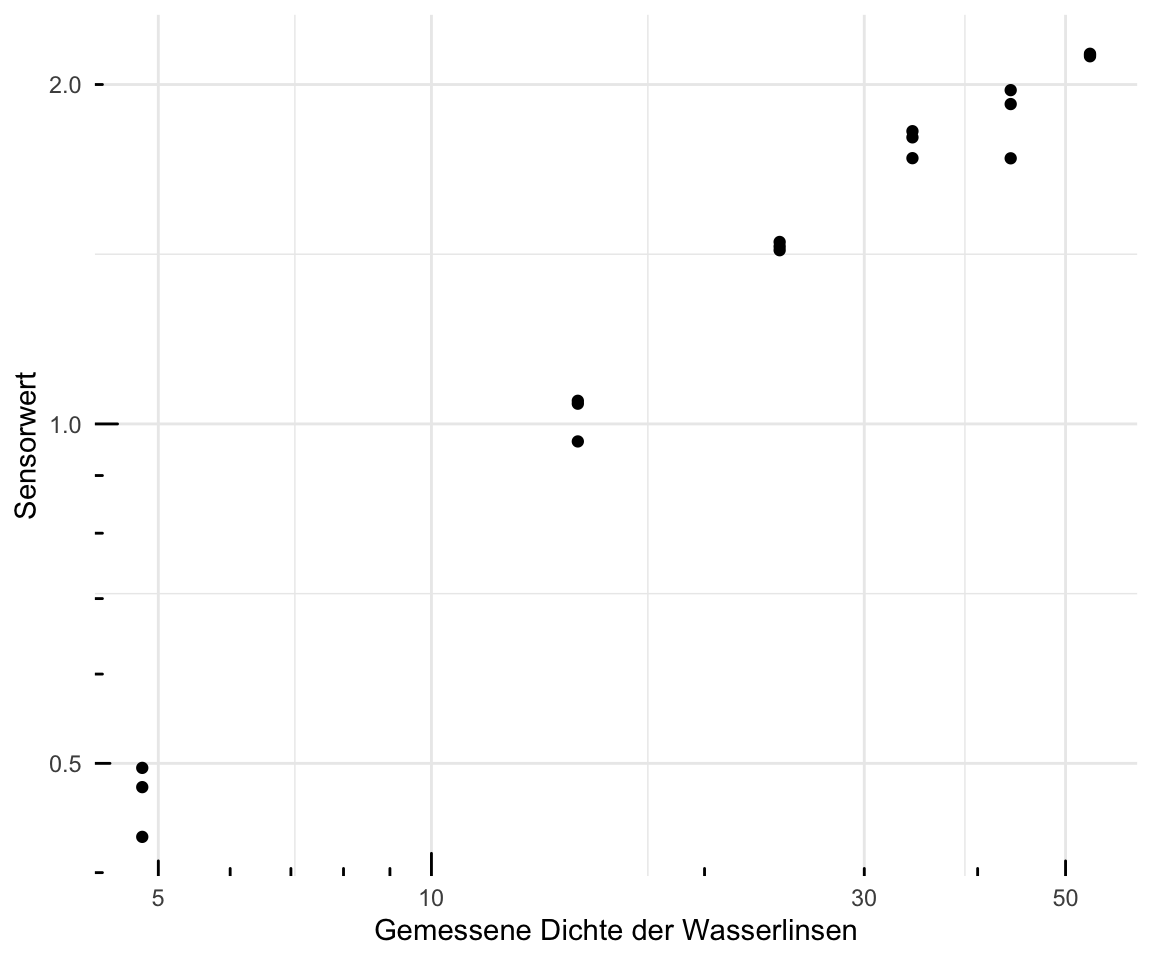
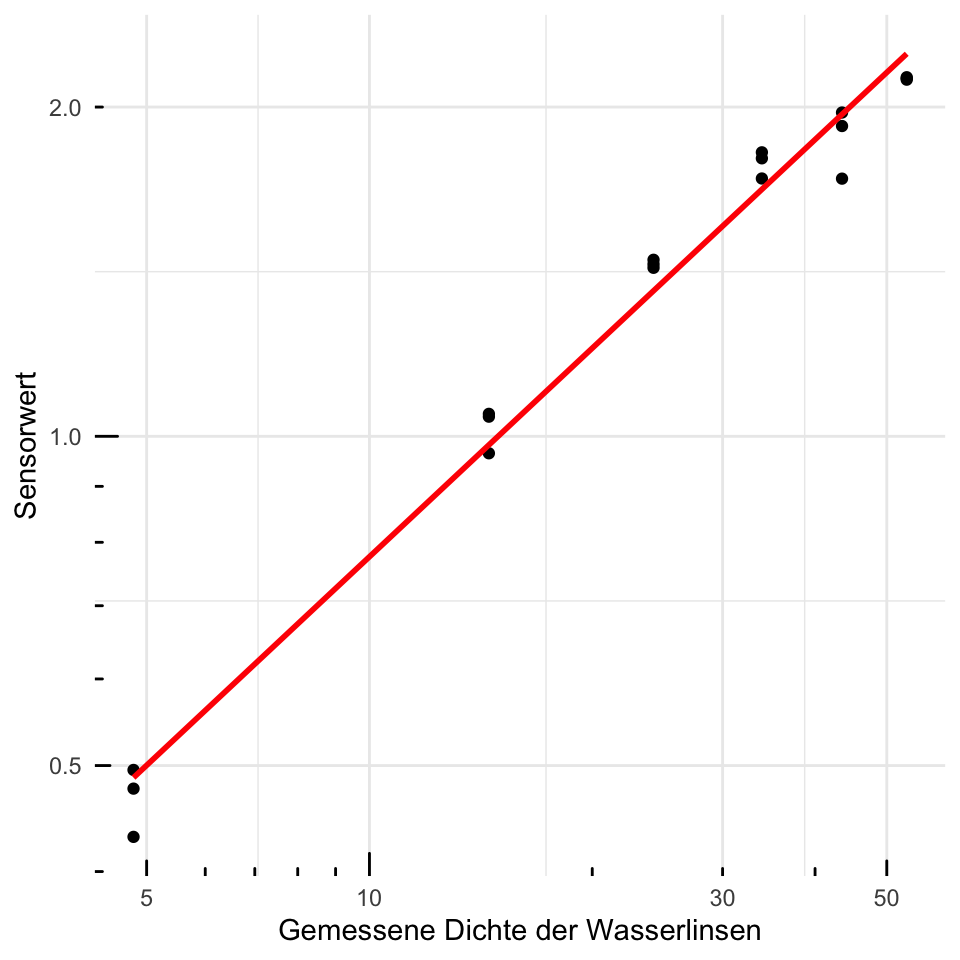
added images

diff --git a/docs/stat-modeling-outlier.html b/docs/stat-modeling-outlier.html
@@ -758,7 +758,7 @@ div.csl-indent {
 
 </header>
 
-<p><em>Letzte Änderung am 23. January 2024 um 09:56:38</em></p>
+<p><em>Letzte Änderung am 23. January 2024 um 18:05:30</em></p>
 <blockquote class="blockquote">
 <p><em>“You should be far more concentrated with your current trajectory than with your current results” — Atomic Habits’</em></p>
 </blockquote>
@@ -771,7 +771,7 @@ div.csl-indent {
 <p><strong>Dieses Kapitel wird in den Wintersemesterferien grundlegend überarbeitet. Mit einer neuen Version ist ab März 2024 zu rechnen. Bis dahin sind Teile des Kapitels ab und zu nicht mehr funktional.</strong></p>
 <hr>
 <p>Was sind Ausreißer (eng. <em>Outlier</em>) in einem Datensatz? An sich schon eine schwierige Frage. Einige Wissenschaftler behaupten es gebe keine Ausreißer. Die Daten müssten so ausgewertet werden wie die Daten erhoben wurden. Was es gäbe wären technische Artefakte, diese müssten entdeckt und entfernt werden. Andere Wissenschaftler meinen, dass Ausreißer schon existieren und entfernt werden müssen, wenn diese Ausreißer nicht zu der Fragestellung oder den restlichen Daten passen. Es ist eine unbekannte Subpopulation, die sich mit einem oder zwei Vertretern in unsere Daten geschmuggelt hat. Diese Subpopulation verzerrt nur das Ergebnis, da wir mit diesen wenigen anderen Beobachtungen sowieso keine Aussage treffen können. <span class="citation" data-cites="cook2021philosophy">Cook u.&nbsp;a. (<a href="#ref-cook2021philosophy" role="doc-biblioref">2021</a>)</span> meint in seiner wissenschaftlichen Veröffentlichung <a href="https://academic.oup.com/icb/article/61/6/2191/6324573">The Philosophy of Outliers: Reintegrating Rare Events Into Biological Science</a>, dass gerade die seltenen Ereignisse, die wir als Ausreißer definieren, dann vielleicht die spannenden Beobachtungen sind. Warum verhält sich gerade diese eine Beobachtung in diesem Experiment so seltsam? Was will uns die Beobachtung mehr über die biologischen Hintergründe verraten? Aber auch im Falle von <span class="citation" data-cites="cook2021philosophy">Cook u.&nbsp;a. (<a href="#ref-cook2021philosophy" role="doc-biblioref">2021</a>)</span> müssen wir uns sicher sein, dass unsere Ausreißer keine Tippfehler oder einfach nur nicht gegossene Pflanzen sind. Dazu aber gleich nochmal mehr.</p>
-<p>Am Ende geht es aber darum Ausreißer zu finden und diese aus den Daten zu entfernen. Wir setzen dann diese Werte der Ausreißer auf <code>NA</code> für fehlender Wert (eng. <em>not available</em>). Oder aber wir ersetzen die Ausreißer durch passendere Werte aus unseren Daten. Im Prinzip ein wenig wie finde den Ausreißer und imputiere den Ausreißer mit einer anderen Zahl. Mehr zur Imputation von fehlenden Werten findest du in <a href="stat-modeling-missing.html"><span>Kapitel&nbsp;42</span></a>. Vermeide bitte eine Ausreißer/Imputationsschleife in der du immer wieder Ausreißer findest und diese dann wieder imputierst! Gerade dieses Thema Ausreißer kann sehr gut von biologischen Fachexperten diskutiert werden. In den folgenden Abschnitten wollen wir uns verschiedene Möglichkeiten der Detektion von Ausreißern annähern. Es geht wie immer von algorithmisch einfach zu komplexer. Darüber hinaus gebe ich zuerst nochmal eine kleine Auswahl an Literatur zu dem Thema Ausreißer. Die kannst du auch überspringen, wenn dich das Thema nicht tiefer interessiert. Ein weitreichenden Überblick liefert aber auf jeden Fall <span class="citation" data-cites="boukerche2020outlier">Boukerche u.&nbsp;a. (<a href="#ref-boukerche2020outlier" role="doc-biblioref">2020</a>)</span> mit ihrer wissenschaftlichen Veröffentlichung <a href="https://dl.acm.org/doi/abs/10.1145/3381028?casa_token=eXl2SvgkPNcAAAAA:Lgs0l4CXmw3mXyzSMVj9-_M2ry0F-lTyfsYUszWhkRJU9TNg5-JjzCaBaOeFSVifSCkvoyQdeuCvvQ">Outlier Detection: Methods, Models, and Classification</a>.</p>
+<p>Am Ende geht es aber darum Ausreißer zu finden und diese aus den Daten zu entfernen. Wir setzen dann diese Werte der Ausreißer auf <code>NA</code> für fehlender Wert (eng. <em>not available</em>). Oder aber wir ersetzen die Ausreißer durch passendere Werte aus unseren Daten. Im Prinzip ein wenig wie finde den Ausreißer und imputiere den Ausreißer mit einer anderen Zahl. Mehr zur Imputation von fehlenden Werten findest du in <a href="stat-modeling-missing.html"><span>Kapitel&nbsp;42</span></a>. Vermeide bitte eine Ausreißer/Imputationsschleife in der du immer wieder Ausreißer findest und diese dann wieder imputierst! Gerade dieses Thema Ausreißer kann sehr gut von biologischen Fachexperten diskutiert werden. In den folgenden Abschnitten wollen wir uns verschiedene Möglichkeiten der Detektion von Ausreißern annähern. Es geht wie immer von algorithmisch einfach zu komplexer. Es ist auch möglich mit der Hauptkomponentenanalyse Ausreißer zu finden, aber das ist dann Thema in dem entsprechenden <a href="stat-modeling-pca.html"><span>Kapitel&nbsp;59</span></a>. Bitte dann dort einmal nachschauen. Darüber hinaus gebe ich zuerst nochmal eine kleine Auswahl an Literatur zu dem Thema Ausreißer. Die kannst du auch überspringen, wenn dich das Thema nicht tiefer interessiert. Ein weitreichenden Überblick liefert aber auf jeden Fall <span class="citation" data-cites="boukerche2020outlier">Boukerche u.&nbsp;a. (<a href="#ref-boukerche2020outlier" role="doc-biblioref">2020</a>)</span> mit ihrer wissenschaftlichen Veröffentlichung <a href="https://dl.acm.org/doi/abs/10.1145/3381028?casa_token=eXl2SvgkPNcAAAAA:Lgs0l4CXmw3mXyzSMVj9-_M2ry0F-lTyfsYUszWhkRJU9TNg5-JjzCaBaOeFSVifSCkvoyQdeuCvvQ">Outlier Detection: Methods, Models, and Classification</a>.</p>
 <div class="quarto-layout-panel">
 <div class="quarto-layout-row quarto-layout-valign-top">
 <div class="quarto-layout-cell" style="flex-basis: 15.0%;justify-content: center;">
@@ -862,11 +862,11 @@ Friedhof der R Pakete
 </section>
 <section id="daten" class="level2" data-number="40.2">
 <h2 data-number="40.2" class="anchored" data-anchor-id="daten"><span class="header-section-number">40.2</span> Daten</h2>
-<p>Um die Detektion von Ausreißern besser zu verstehen, schauen wir uns zwei Beispieldaten an.</p>
+<p>Um die Detektion von Ausreißern besser zu verstehen, schauen wir uns zwei Beispieldaten an. Als erstes einen Datensatz zu dem Wachstum von Wasserlinsen und der Messung derselbigen durch einen Sensor. Wir messen also einmal die Dichte <code>duckweeds_density</code> konventionell und wollen dann sehen, ob unser Sensor die Messungen dann widerspiegelt. Hier können wir vermutlich erstmal von einem linearen Wachstum ausgehen, dann aber vermutlich von einer Sättigung. Wir haben un mal nur begrenzt Platz für immer neue sich teilende Wasserlinsen.</p>
 <div class="cell">
 <div class="sourceCode cell-code" id="cb2"><pre class="sourceCode r code-with-copy"><code class="sourceCode r"><span id="cb2-1"><a href="#cb2-1" aria-hidden="true" tabindex="-1"></a>duckweeds_tbl <span class="ot">&lt;-</span> <span class="fu">read_excel</span>(<span class="st">"data/duckweeds_density.xlsx"</span>)</span></code><button title="In die Zwischenablage kopieren" class="code-copy-button"><i class="bi"></i></button></pre></div>
 </div>
-<p>In der <a href="stat-modeling-non-linear.html#tbl-duckweeds">Tabelle&nbsp;<span>52.2</span></a> siehst du dann einmal einen Auszug aus den Daten zu den Wasserlinsen. Es ist ein sehr einfacher Datensatz mit nur zwei Spalten. Wie du siehst, scheint sich das bei der nicht linearen Regression durchzuziehen. Es gehen auch komplexere Modelle, aber dann kann ich die Ergebnisse schlechter visualisieren.</p>
+<p>In der <a href="stat-modeling-non-linear.html#tbl-duckweeds">Tabelle&nbsp;<span>52.2</span></a> siehst du dann einmal einen Auszug aus den Daten zu den Wasserlinsen. Es ist ein sehr einfacher Datensatz mit nur zwei Spalten. Wir haben es eigentlich mit einem nicht linearen Zusammenhang zu tun, aber wir schauen uns hier mal an, was die Algorithmen uns so wiedergeben.</p>
 <div class="cell">
 <div class="cell-output-display">
 <div id="tbl-duckweeds" class="anchored">
@@ -912,19 +912,19 @@ Friedhof der R Pakete
 </div>
 </div>
 </div>
-<p>Im Weiteren betrachten wir noch das Beispiel der Gummibärchendaten. Auch hier haben wir echte Daten vorliegen, so dass wir eventuell Ausreißer entdecken könnten. Da wir hier fehlende Werte in den Daten haben, entfernen wir alle fehlenden Werte mit der Funktion <code>na.omit()</code>. Damit löschen wir jede Zeile in den Daten, wo mindestens ein fehlender Wert auftritt. Da wir hier mittlerweile sehr viele Daten vorliegen haben, wollen wir das Problem auf die beiden Quellen <em>FU Berlin</em> und dem <em>Girls and Boys Day</em> eingrenzen.</p>
+<p>Im Weiteren betrachten wir noch das Beispiel der Gummibärchendaten. Auch hier haben wir echte Daten vorliegen, so dass wir eventuell Ausreißer entdecken könnten. Da wir hier fehlende Werte in den Daten haben, entfernen wir alle fehlenden Werte mit der Funktion <code>na.omit()</code>. Damit löschen wir jede Zeile in den Daten, wo mindestens ein fehlender Wert auftritt.</p>
 <div class="cell">
 <div class="sourceCode cell-code" id="cb3"><pre class="sourceCode r code-with-copy"><code class="sourceCode r"><span id="cb3-1"><a href="#cb3-1" aria-hidden="true" tabindex="-1"></a>gummi_tbl <span class="ot">&lt;-</span> <span class="fu">read_excel</span>(<span class="st">"data/gummibears.xlsx"</span>)  <span class="sc">|&gt;</span></span>
 <span id="cb3-2"><a href="#cb3-2" aria-hidden="true" tabindex="-1"></a>  <span class="fu">select</span>(module, gender, age, height) <span class="sc">|&gt;</span> </span>
 <span id="cb3-3"><a href="#cb3-3" aria-hidden="true" tabindex="-1"></a>  <span class="fu">mutate</span>(<span class="at">gender =</span> <span class="fu">factor</span>(gender, <span class="at">labels =</span> <span class="fu">c</span>(<span class="st">"männlich"</span>, <span class="st">"weiblich"</span>))) <span class="sc">|&gt;</span> </span>
 <span id="cb3-4"><a href="#cb3-4" aria-hidden="true" tabindex="-1"></a>  <span class="fu">na.omit</span>()</span></code><button title="In die Zwischenablage kopieren" class="code-copy-button"><i class="bi"></i></button></pre></div>
 </div>
-<p>In der <a href="#tbl-gummi-1">Tabelle&nbsp;<span>40.2</span></a> ist der Datensatz <code>gummi_tbl</code> nochmal für die ersten sieben Zeilen dargestellt. Nun haben wir hier in dem Datensatz zu den Gummibärchen auch keine fehlenden Werte mehr.</p>
+<p>In der <a href="#tbl-gummi-1">Tabelle&nbsp;<span>40.2</span></a> ist der Datensatz <code>gummi_tbl</code> nochmal als Auszug dargestellt dargestellt. Nun haben wir hier in dem Datensatz zu den Gummibärchen auch keine fehlenden Werte mehr.</p>
 <div class="cell">
 <div class="cell-output-display">
 <div id="tbl-gummi-1" class="anchored">
 <table class="table table-sm table-striped small">
-<caption>Tabelle&nbsp;40.2— Auszug</caption>
+<caption>Tabelle&nbsp;40.2— Auszug aus den Gummibärchendaten für das Modul, dem Geschlecht, dem Alter und der Körpergröße.</caption>
 <thead>
 <tr class="header">
 <th style="text-align: center;">module</th>
@@ -993,7 +993,7 @@ Friedhof der R Pakete
 </div>
 </div>
 </div>
-<p>Nun wollen wir uns aber erstmal den simpelsten Fall von Ausreißern und die Problematik dahinter visualisieren.</p>
+<p>Nun wollen wir uns aber erstmal den simpelsten Fall von Ausreißern und die Problematik dahinter visualisieren. Dann arbeiten wir uns zu komplexeren Paketen vor.</p>
 </section>
 <section id="visualisierung" class="level2 page-columns page-full" data-number="40.3">
 <h2 data-number="40.3" class="anchored" data-anchor-id="visualisierung"><span class="header-section-number">40.3</span> Visualisierung</h2>
@@ -1004,23 +1004,25 @@ Friedhof der R Pakete
 <div class="sourceCode cell-code" id="cb4"><pre class="sourceCode r code-with-copy"><code class="sourceCode r"><span id="cb4-1"><a href="#cb4-1" aria-hidden="true" tabindex="-1"></a><span class="fu">ggplot</span>(duckweeds_tbl, <span class="fu">aes</span>(duckweeds_density, sensor)) <span class="sc">+</span></span>
 <span id="cb4-2"><a href="#cb4-2" aria-hidden="true" tabindex="-1"></a>  <span class="fu">geom_point</span>() <span class="sc">+</span></span>
 <span id="cb4-3"><a href="#cb4-3" aria-hidden="true" tabindex="-1"></a>  <span class="fu">theme_minimal</span>() <span class="sc">+</span></span>
-<span id="cb4-4"><a href="#cb4-4" aria-hidden="true" tabindex="-1"></a>  <span class="fu">labs</span>(<span class="at">x =</span> <span class="st">"Gemessene Dichte der Wasserlinsen"</span>, <span class="at">y =</span> <span class="st">"Sensorwert"</span>)</span>
-<span id="cb4-5"><a href="#cb4-5" aria-hidden="true" tabindex="-1"></a></span>
+<span id="cb4-4"><a href="#cb4-4" aria-hidden="true" tabindex="-1"></a>  <span class="fu">labs</span>(<span class="at">x =</span> <span class="st">"Gemessene Dichte der Wasserlinsen"</span>, <span class="at">y =</span> <span class="st">"Sensorwert"</span>) <span class="sc">+</span></span>
+<span id="cb4-5"><a href="#cb4-5" aria-hidden="true" tabindex="-1"></a>  <span class="fu">geom_smooth</span>(<span class="at">method =</span> <span class="st">"lm"</span>, <span class="at">se =</span> <span class="cn">FALSE</span>, <span class="at">color =</span> <span class="st">"red"</span>)</span>
 <span id="cb4-6"><a href="#cb4-6" aria-hidden="true" tabindex="-1"></a></span>
-<span id="cb4-7"><a href="#cb4-7" aria-hidden="true" tabindex="-1"></a><span class="fu">ggplot</span>(duckweeds_tbl, <span class="fu">aes</span>(duckweeds_density, sensor)) <span class="sc">+</span></span>
-<span id="cb4-8"><a href="#cb4-8" aria-hidden="true" tabindex="-1"></a>  <span class="fu">geom_point</span>() <span class="sc">+</span></span>
-<span id="cb4-9"><a href="#cb4-9" aria-hidden="true" tabindex="-1"></a>  <span class="fu">theme_minimal</span>() <span class="sc">+</span></span>
-<span id="cb4-10"><a href="#cb4-10" aria-hidden="true" tabindex="-1"></a>  <span class="fu">labs</span>(<span class="at">x =</span> <span class="st">"Gemessene Dichte der Wasserlinsen"</span>, <span class="at">y =</span> <span class="st">"Sensorwert"</span>) <span class="sc">+</span></span>
-<span id="cb4-11"><a href="#cb4-11" aria-hidden="true" tabindex="-1"></a>  <span class="fu">scale_x_log10</span>() <span class="sc">+</span></span>
-<span id="cb4-12"><a href="#cb4-12" aria-hidden="true" tabindex="-1"></a>  <span class="fu">scale_y_log10</span>() <span class="sc">+</span></span>
-<span id="cb4-13"><a href="#cb4-13" aria-hidden="true" tabindex="-1"></a>  <span class="fu">annotation_logticks</span>(<span class="at">sides =</span> <span class="st">"bl"</span>)</span></code><button title="In die Zwischenablage kopieren" class="code-copy-button"><i class="bi"></i></button></pre></div>
+<span id="cb4-7"><a href="#cb4-7" aria-hidden="true" tabindex="-1"></a></span>
+<span id="cb4-8"><a href="#cb4-8" aria-hidden="true" tabindex="-1"></a><span class="fu">ggplot</span>(duckweeds_tbl, <span class="fu">aes</span>(duckweeds_density, sensor)) <span class="sc">+</span></span>
+<span id="cb4-9"><a href="#cb4-9" aria-hidden="true" tabindex="-1"></a>  <span class="fu">geom_point</span>() <span class="sc">+</span></span>
+<span id="cb4-10"><a href="#cb4-10" aria-hidden="true" tabindex="-1"></a>  <span class="fu">theme_minimal</span>() <span class="sc">+</span></span>
+<span id="cb4-11"><a href="#cb4-11" aria-hidden="true" tabindex="-1"></a>  <span class="fu">labs</span>(<span class="at">x =</span> <span class="st">"Gemessene Dichte der Wasserlinsen"</span>, <span class="at">y =</span> <span class="st">"Sensorwert"</span>) <span class="sc">+</span></span>
+<span id="cb4-12"><a href="#cb4-12" aria-hidden="true" tabindex="-1"></a>  <span class="fu">scale_x_log10</span>() <span class="sc">+</span></span>
+<span id="cb4-13"><a href="#cb4-13" aria-hidden="true" tabindex="-1"></a>  <span class="fu">scale_y_log10</span>() <span class="sc">+</span></span>
+<span id="cb4-14"><a href="#cb4-14" aria-hidden="true" tabindex="-1"></a>  <span class="fu">annotation_logticks</span>(<span class="at">sides =</span> <span class="st">"bl"</span>) <span class="sc">+</span></span>
+<span id="cb4-15"><a href="#cb4-15" aria-hidden="true" tabindex="-1"></a>  <span class="fu">geom_smooth</span>(<span class="at">method =</span> <span class="st">"lm"</span>, <span class="at">se =</span> <span class="cn">FALSE</span>, <span class="at">color =</span> <span class="st">"red"</span>)</span></code><button title="In die Zwischenablage kopieren" class="code-copy-button"><i class="bi"></i></button></pre></div>
 <div id="fig-outlier-duckweeds-01" class="cell column-page quarto-layout-panel">
 <figure class="figure">
 <div class="quarto-layout-row quarto-layout-valign-top">
 <div class="cell-output-display quarto-layout-cell quarto-layout-cell-subref" style="flex-basis: 50.0%;justify-content: center;">
 <div id="fig-outlier-duckweeds-01-1" class="quarto-figure quarto-figure-center anchored">
 <figure class="figure">
-<p><img src="stat-modeling-outlier_files/figure-html/fig-outlier-duckweeds-01-1.png" class="img-fluid figure-img" data-ref-parent="fig-outlier-duckweeds-01" width="576"></p>
+<p><img src="stat-modeling-outlier_files/figure-html/fig-outlier-duckweeds-01-1.png" class="img-fluid figure-img" data-ref-parent="fig-outlier-duckweeds-01" width="480"></p>
 <figcaption class="figure-caption">(a) Orginal</figcaption>
 </figure>
 </div>
@@ -1028,7 +1030,7 @@ Friedhof der R Pakete
 <div class="cell-output-display quarto-layout-cell quarto-layout-cell-subref" style="flex-basis: 50.0%;justify-content: center;">
 <div id="fig-outlier-duckweeds-01-2" class="quarto-figure quarto-figure-center anchored">
 <figure class="figure">
-<p><img src="stat-modeling-outlier_files/figure-html/fig-outlier-duckweeds-01-2.png" class="img-fluid figure-img" data-ref-parent="fig-outlier-duckweeds-01" width="576"></p>
+<p><img src="stat-modeling-outlier_files/figure-html/fig-outlier-duckweeds-01-2.png" class="img-fluid figure-img" data-ref-parent="fig-outlier-duckweeds-01" width="480"></p>
 <figcaption class="figure-caption">(b) <span class="math inline">\(log\)</span> transformiert</figcaption>
 </figure>
 </div>
@@ -1314,24 +1316,9 @@ Friedhof der R Pakete
 <div class="sourceCode cell-code" id="cb15"><pre class="sourceCode r code-with-copy"><code class="sourceCode r"><span id="cb15-1"><a href="#cb15-1" aria-hidden="true" tabindex="-1"></a>fit_leverage <span class="ot">&lt;-</span> <span class="fu">lm</span>(jump_length <span class="sc">~</span> weight, <span class="at">data =</span> out_tbl)</span></code><button title="In die Zwischenablage kopieren" class="code-copy-button"><i class="bi"></i></button></pre></div>
 </div>
 <div class="cell">
-<div class="sourceCode cell-code" id="cb16"><pre class="sourceCode r code-with-copy"><code class="sourceCode r"><span id="cb16-1"><a href="#cb16-1" aria-hidden="true" tabindex="-1"></a>fit_leverage <span class="sc">|&gt;</span> </span>
+<div class="sourceCode cell-code" id="cb16"><pre class="sourceCode r code-with-copy"><code class="sourceCode r"><span id="cb16-1"><a href="#cb16-1" aria-hidden="true" tabindex="-1"></a>leverage_tbl <span class="ot">&lt;-</span> fit_leverage <span class="sc">|&gt;</span> </span>
 <span id="cb16-2"><a href="#cb16-2" aria-hidden="true" tabindex="-1"></a>  <span class="fu">augment</span>() <span class="sc">|&gt;</span> </span>
 <span id="cb16-3"><a href="#cb16-3" aria-hidden="true" tabindex="-1"></a>  <span class="fu">select</span>(jump_length, weight, .hat)</span></code><button title="In die Zwischenablage kopieren" class="code-copy-button"><i class="bi"></i></button></pre></div>
-<div class="cell-output cell-output-stdout">
-<pre><code># A tibble: 10 × 3
-   jump_length weight  .hat
-         &lt;dbl&gt;  &lt;dbl&gt; &lt;dbl&gt;
- 1          56    1.1 0.334
- 2          23    2.3 0.196
- 3          24    2.1 0.215
- 4          23    3.7 0.112
- 5          19    4.1 0.103
- 6          22    5.4 0.119
- 7          18    7.6 0.307
- 8          26    4.3 0.100
- 9          24    5.8 0.138
-10           2    8.1 0.377</code></pre>
-</div>
 </div>
 <dl>
 <dt>Leverage <code>.hat</code></dt>
@@ -1340,6 +1327,20 @@ Friedhof der R Pakete
 </dd>
 </dl>
 <p>In unserem Fall wäre dann <span class="math inline">\(k = 1\)</span> sowie <span class="math inline">\(n = 10\)</span>, so dass wir auf einen Grenzwert von <span class="math inline">\((2\cdot 1 +2)/10 = 0.4\)</span> kommen, wie auch schon bei Cook’s Distanz.</p>
+<div class="cell" data-layout-align="center">
+<div class="sourceCode cell-code" id="cb17"><pre class="sourceCode r code-with-copy"><code class="sourceCode r"><span id="cb17-1"><a href="#cb17-1" aria-hidden="true" tabindex="-1"></a><span class="fu">ggplot</span>(leverage_tbl, <span class="fu">aes</span>(weight, .hat)) <span class="sc">+</span></span>
+<span id="cb17-2"><a href="#cb17-2" aria-hidden="true" tabindex="-1"></a>  <span class="fu">geom_point</span>() <span class="sc">+</span></span>
+<span id="cb17-3"><a href="#cb17-3" aria-hidden="true" tabindex="-1"></a>  <span class="fu">geom_hline</span>(<span class="at">yintercept =</span> <span class="fl">0.4</span>, <span class="at">color =</span> <span class="st">"red"</span>) <span class="sc">+</span></span>
+<span id="cb17-4"><a href="#cb17-4" aria-hidden="true" tabindex="-1"></a>  <span class="fu">theme_minimal</span>()</span></code><button title="In die Zwischenablage kopieren" class="code-copy-button"><i class="bi"></i></button></pre></div>
+<div class="cell-output-display">
+<div id="fig-hat-2" class="quarto-figure quarto-figure-center anchored">
+<figure class="figure">
+<p><img src="stat-modeling-outlier_files/figure-html/fig-hat-2-1.png" class="img-fluid figure-img" width="480"></p>
+<figcaption class="figure-caption">Abbildung&nbsp;40.5— Visualisierung der Ausreißer nach der <em>leverage</em>. Die Grenze als rote Linie ist mit 0.4 berechnet worden.</figcaption>
+</figure>
+</div>
+</div>
+</div>
 </section>
 <section id="ausreißer-mit-hampel-filter" class="level3" data-number="40.4.3">
 <h3 data-number="40.4.3" class="anchored" data-anchor-id="ausreißer-mit-hampel-filter"><span class="header-section-number">40.4.3</span> Ausreißer mit Hampel Filter</h3>
@@ -1405,7 +1406,7 @@ Friedhof der R Pakete
 </div>
 </div>
 </div>
-<p></p><figcaption class="figure-caption">Abbildung&nbsp;40.5— Der Beeswarm ist ein Dotplot für eine große Anzahl an Beobachtungen. Hier schauen wir uns einmal das Alter und die Körpergröße aufgeteilt nach Geschlecht an. Bei sehr vielen Beobachtungen kommt dann auch ein Bienenschwarm an die Grenze.</figcaption><p></p>
+<p></p><figcaption class="figure-caption">Abbildung&nbsp;40.6— Der Beeswarm ist ein Dotplot für eine große Anzahl an Beobachtungen. Hier schauen wir uns einmal das Alter und die Körpergröße aufgeteilt nach Geschlecht an. Bei sehr vielen Beobachtungen kommt dann auch ein Bienenschwarm an die Grenze.</figcaption><p></p>
 </figure>
 </div>
 </section>
@@ -1519,7 +1520,7 @@ Anwendungsbeispiel: Ausreißer in einer simplen Regression
 </div>
 </div>
 </div>
-<p></p><figcaption class="figure-caption">Abbildung&nbsp;40.6— Densityplot der Verteilungen vor und nach der Imputation.</figcaption><p></p>
+<p></p><figcaption class="figure-caption">Abbildung&nbsp;40.7— Densityplot der Verteilungen vor und nach der Imputation.</figcaption><p></p>
 </figure>
 </div>
 </div>

diff --git a/docs/app-spielecke.html b/docs/app-spielecke.html
@@ -475,14 +475,14 @@ div.csl-indent {
 </li>
           <li class="sidebar-item">
   <div class="sidebar-item-container"> 
-  <a href="./stat-modeling-variable-selection.html" class="sidebar-item-text sidebar-link">
- <span class="menu-text"><span class="chapter-number">40</span>&nbsp; <span class="chapter-title">Variablenselektion</span></span></a>
+  <a href="./stat-modeling-outlier.html" class="sidebar-item-text sidebar-link">
+ <span class="menu-text"><span class="chapter-number">40</span>&nbsp; <span class="chapter-title">Ausreißer</span></span></a>
   </div>
 </li>
           <li class="sidebar-item">
   <div class="sidebar-item-container"> 
-  <a href="./stat-modeling-outlier.html" class="sidebar-item-text sidebar-link">
- <span class="menu-text"><span class="chapter-number">41</span>&nbsp; <span class="chapter-title">Ausreißer</span></span></a>
+  <a href="./stat-modeling-variable-selection.html" class="sidebar-item-text sidebar-link">
+ <span class="menu-text"><span class="chapter-number">41</span>&nbsp; <span class="chapter-title">Variablenselektion</span></span></a>
   </div>
 </li>
           <li class="sidebar-item">
@@ -759,7 +759,7 @@ div.csl-indent {
 
 </header>
 
-<p><em>Letzte Änderung am 20. January 2024 um 18:52:08</em></p>
+<p><em>Letzte Änderung am 23. January 2024 um 13:36:34</em></p>
 <blockquote class="blockquote">
 <p><em>“Denn, um es endlich auf einmal herauszusagen, der Mensch spielt nur, wo er in voller Bedeutung des Worts Mensch ist, und er ist nur da ganz Mensch, wo er spielt.” — Friedrich Schiller</em></p>
 </blockquote>
@@ -832,6 +832,7 @@ div.csl-indent {
 <p><a href="https://easystats.github.io/modelbased/">R Paket <code>{modelbased}</code></a></p>
 <p>Das R Paket <code>{visibly}</code> auf <a href="https://m-clark.github.io/visibly/articles/intro.html">An Introduction to Visibly</a></p>
 <p><a href="https://gganimate.com/">R Paket <code>{gganimate}</code></a></p>
+<p><a href="https://github.com/bips-hb/innsight">R Paket <code>{innsight}</code></a></p>
 <div class="cell">
 <div class="sourceCode cell-code" id="cb1"><pre class="sourceCode r code-with-copy"><code class="sourceCode r"><span id="cb1-1"><a href="#cb1-1" aria-hidden="true" tabindex="-1"></a><span class="fu">library</span>(ggplot2)</span>
 <span id="cb1-2"><a href="#cb1-2" aria-hidden="true" tabindex="-1"></a><span class="fu">library</span>(gganimate)</span>
